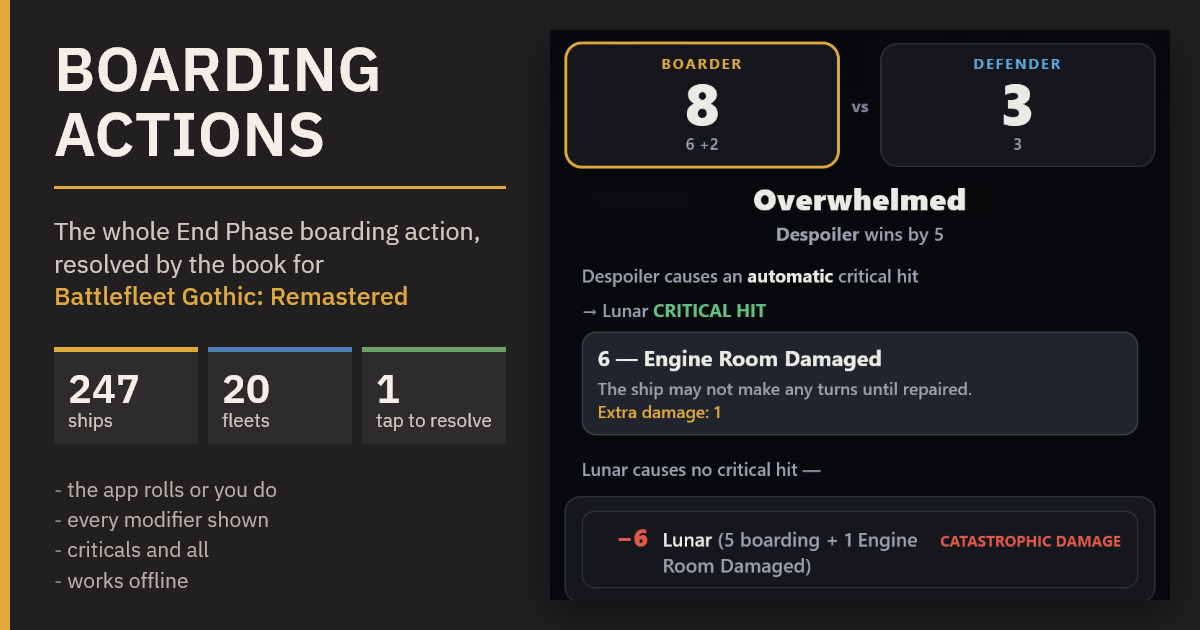
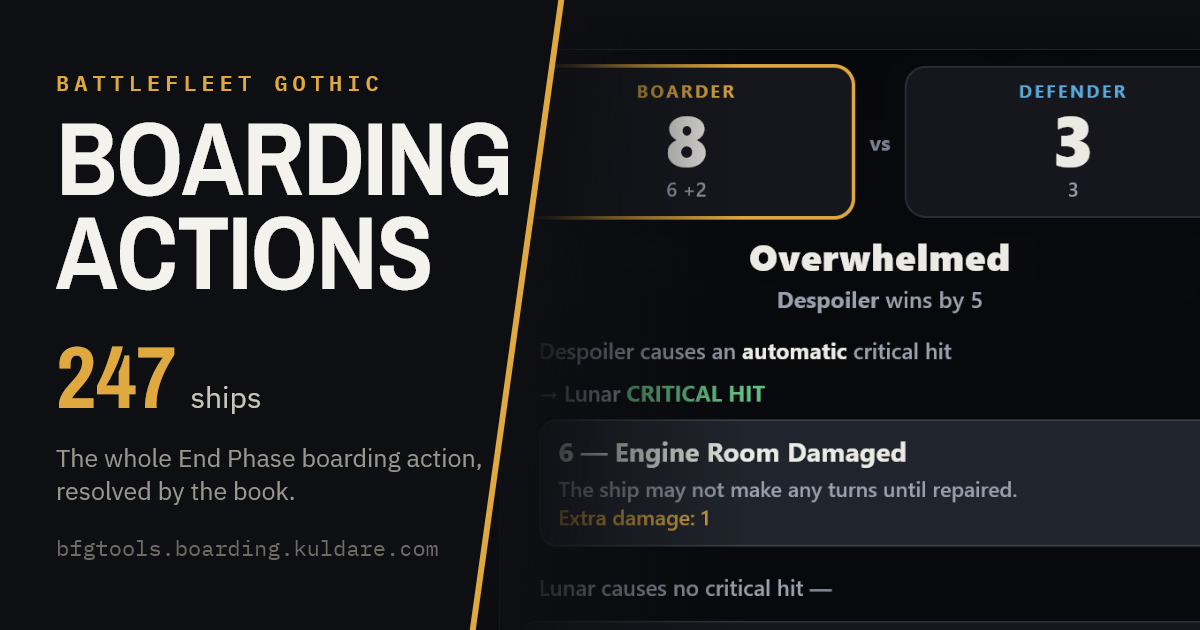
Link previews: the bleed layout, sized for a chat embed
Discord shows the preview about 400 px wide, where the classic layout's
bullet list and three number boxes blur. Bleed keeps one name, one number
and the app's picture, nothing under 22 px. Adds the bleed and slate
layouts to tools/og/styles.js and publishes bleed for every app.

diff --git a/tools/og/styles.js b/tools/og/styles.js
@@ -167,6 +167,60 @@ body{background:${f.accent};color:#111}
 <div class="lab">${esc(a.label)}</div><div class="rest">${rest.map(s => `<div><b>${esc(s.n)}</b> ${esc(s.label)}</div>`).join("")}</div></div>
 <div class="tag">${esc(f.tagline)}.<span class="mono">${esc(host(f))}</span></div>`);
   },
+
+  /* Made for the size a chat shows it at (about 400 px wide): one name, one
+     number, one picture, nothing under 22 px. The picture bleeds off the
+     right and bottom edges, behind a sheared panel of the app's colour. */
+  bleed(f, shot) {
+    const t = tall(shot), [a] = f.stats;
+    const z = t ? fit(shot, 420, 760) : fit(shot, 760, 760);
+    return page(`
+body{background:#0E0F13;color:#F4F2EC}
+.pic{position:absolute;right:${t ? 90 : -60}px;top:${t ? 60 : 50}px;width:${z.w}px;height:${z.h}px;
+  border-radius:${t ? 28 : 6}px;overflow:hidden;box-shadow:0 30px 80px rgba(0,0,0,.7),0 0 0 1px #ffffff1a}
+.pic img{display:block;width:100%;height:100%}
+.pic:after{content:"";position:absolute;inset:0;background:linear-gradient(90deg,#0E0F13 0,transparent 32%)}
+.wedge{position:absolute;left:-80px;top:0;bottom:0;width:${t ? 640 : 600}px;background:#0E0F13;transform:skewX(-8deg);
+  border-right:6px solid ${f.accent};box-shadow:30px 0 60px rgba(14,15,19,.85)}
+.l{position:absolute;left:56px;top:0;bottom:0;width:470px;display:flex;flex-direction:column;justify-content:center}
+.k{font-size:22px;letter-spacing:5px;text-transform:uppercase;color:${f.accent};font-weight:600}
+h1{font-size:${f.head.join(" ").length > 17 ? 92 : 104}px;line-height:.9;font-weight:700;text-transform:uppercase;margin-top:14px;letter-spacing:-1px}
+.n{margin-top:34px;display:flex;align-items:baseline;gap:14px}
+.n b{font-size:88px;line-height:1;font-weight:700;color:${f.accent}}.n span{font-size:30px;color:#C9C4B8}
+.tag{font-size:25px;line-height:1.3;color:#9A968E;margin-top:22px;max-width:440px}
+.u{font-size:22px;color:#6F6B64;margin-top:26px}`,
+      `<div class="pic"><img src="${shot.src}"></div><div class="wedge"></div>
+<div class="l"><div class="k mono">Battlefleet Gothic</div><h1 class="nar">${f.head.map(esc).join("<br>")}</h1>
+<div class="n"><b class="nar">${esc(a.n)}</b><span>${esc(a.label)}</span></div><div class="tag">${esc(f.tagline)}.</div>
+<div class="u mono">${esc(host(f))}</div></div>`);
+  },
+
+  /* An Imperial data-slate: a terminal readout in monospace, the picture as
+     the slate's screen, the facts as a transmission header. */
+  slate(f, shot) {
+    const t = tall(shot), z = fit(shot, t ? 330 : 560, 470);
+    return page(`
+body{background:#0B0D0C;color:#CFE3C8;font-family:'IBM Plex Mono',monospace}
+body:before{content:"";position:absolute;inset:0;background:repeating-linear-gradient(0deg,transparent 0 3px,#00000055 3px 4px);pointer-events:none;z-index:3}
+.hdr{position:absolute;left:0;right:0;top:0;height:54px;background:${f.accent};color:#0B0D0C;display:flex;align-items:center;padding:0 44px;font-size:20px;letter-spacing:4px;font-weight:700;text-transform:uppercase}
+.hdr span{margin-left:auto;font-weight:400;letter-spacing:2px}
+.stripe{position:absolute;left:0;right:0;top:54px;height:10px;background:repeating-linear-gradient(135deg,${f.accent} 0 16px,#0B0D0C 16px 32px)}
+.l{position:absolute;left:44px;top:100px;width:${1200 - 44 - (z.w + 24) - (t ? 90 : 44) - 40 - 44}px}
+.k{font-size:17px;letter-spacing:3px;color:#6F8F6A}
+h1{font-family:'Archivo Narrow',sans-serif;font-size:74px;line-height:.95;text-transform:uppercase;color:#F0F5EA;margin:14px 0 24px;letter-spacing:1px}
+.r{display:flex;justify-content:space-between;border-top:1px solid #243126;padding:10px 0;font-size:22px}
+.r span{color:#8FAF88}.r b{color:#F0F5EA;font-weight:600}
+.r.hi b{color:${f.accent};font-size:30px}
+.scr{position:absolute;${t ? "right:90px;top:88px" : "right:44px;top:100px"};width:${z.w + 24}px;padding:12px;background:#121614;border:2px solid #2E3D30;border-radius:6px;box-shadow:inset 0 0 40px #000,0 0 30px ${f.accent}33}
+.scr img{display:block;width:${z.w}px;height:${z.h}px;filter:contrast(1.05)}
+.scr i{position:absolute;left:12px;top:-14px;background:#0B0D0C;padding:0 8px;font-size:14px;letter-spacing:3px;font-style:normal;color:${f.accent}}
+.ft{position:absolute;left:44px;right:44px;bottom:26px;font-size:16px;letter-spacing:2px;color:#4F6A4C;display:flex;justify-content:space-between}`,
+      `<div class="hdr">++ ${esc(f.head.join(" "))} ++<span>${esc(host(f))}</span></div><div class="stripe"></div>
+<div class="l"><div class="k">// TRANSMISSION: ${esc(f.tagline)}</div><h1>${f.head.map(esc).join("<br>")}</h1>
+${f.stats.map((s, i) => `<div class="r${i ? "" : " hi"}"><span>${esc(s.label)}</span><b>${esc(s.n)}</b></div>`).join("")}</div>
+<div class="scr"><i>PICT-FEED</i><img src="${shot.src}"></div>
+<div class="ft"><span>FREE // NO INSTALL // WORKS OFFLINE</span><span>SOURCE: ${esc(f.books).toUpperCase()}</span></div>`);
+  },
 };
 
 module.exports = { STYLES };

diff --git a/tools/og.js b/tools/og.js
@@ -25,7 +25,7 @@ const { APPS, facts, key } = require("./og/facts.js");
 const { STYLES } = require("./og/styles.js");
 
 /* the layout the published images use */
-const STYLE = "classic";
+const STYLE = "bleed";
 
 const argv = process.argv.slice(2);
 const opt = name => { const a = argv.find(x => x.startsWith("--" + name + "=")); return a ? a.slice(name.length + 3) : null; };
